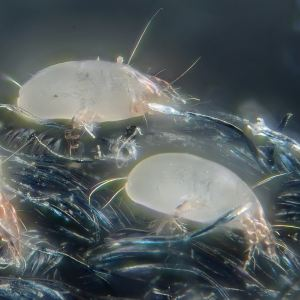
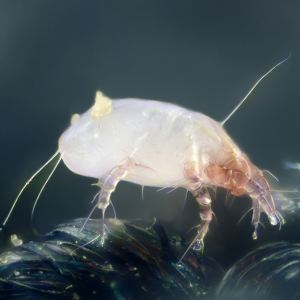
changed photo for 尘螨 #368

diff --git a/extra_chars/虫.md b/extra_chars/虫.md
@@ -77,7 +77,7 @@
 | 蝾; 螈; 蚖 | 蝾螈; 蚖 | róngyuán; yuán | salamander; newt | ![蝾螈](./虫/蝾螈.jpg) | | [Pexels](https://www.pexels.com/photo/orange-juvenile-newt-crawling-on-the-forest-floor-17231282/) |
 | 螃; 蟹 | 螃蟹 | pángxiè | crab | ![螃蟹](./虫/螃蟹.jpg) | | [Pexels](https://www.pexels.com/photo/yellow-crab-on-gray-sand-during-daytime-73769/) |
 | 螅 | 水螅 | shuǐxī | hydra; freshwater polyp | ![水螅](./虫/水螅.jpg) | | [Wikimedia](https://commons.wikimedia.org/wiki/File:Hydra001.jpg) |
-| 螨 | 尘螨 | chénmǎn | dust mite | ![尘螨](./虫/尘螨.jpg) | | [Wikimedia](https://commons.wikimedia.org/wiki/File:House_dust_mites_(5247996458).jpg) |
+| 螨 | 尘螨 | chénmǎn | dust mite | ![尘螨](./虫/尘螨.jpg) | | [Wikimedia](https://commons.wikimedia.org/wiki/File:House_dust_mite_(Dermatophagoides_pteronyssinus).jpg) |
 | 螨 | 螨虫 | mǎnchóng | mite | ![螨虫](./虫/螨虫.jpg) | | [Wikimedia](https://commons.wikimedia.org/wiki/File:Rust_Mite,_Aceria_anthocoptes.jpg) |
 | 螫 | 螫 | zhē; shì | sting | ![螫](./虫/螫.jpg) | used for venomous stings, e.g. bee, scorpion, wasp; 叮 (dīng) for mosquitoes, leeches, etc.; also written 蜇 (zhē) | [Wikimedia](https://commons.wikimedia.org/wiki/File:Stechende_Biene_12a.jpg) |
 | 螭 | 螭吻 | chīwěn | hornless dragon | ![螭吻](./虫/螭吻.jpg) | mythological; roof ornament | [Wikimedia](https://commons.wikimedia.org/wiki/File:Datong_Huayansi_chiwen_(1)_January_1985.jpg) |
